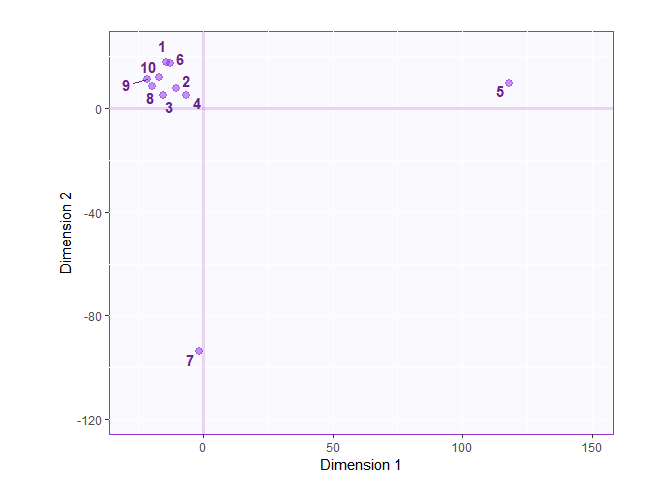
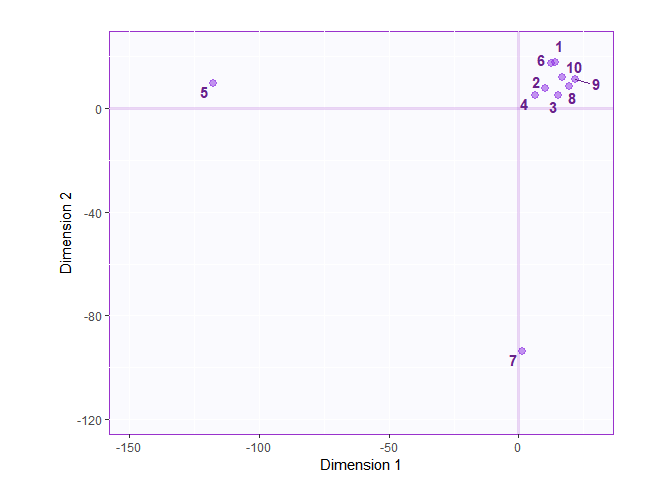
Add factor scores plots to the template

diff --git a/jc/MuSu__NA,_c,_NA_.md b/jc/MuSu__NA,_c,_NA_.md
@@ -128,21 +128,37 @@ col4ImportantEdg[!importantEdg] <- col4NS # replace them in the color vector
 
 Then the contributions are shown in plots
 
+![](MuSu__NA,_c,_NA__files/figure-gfm/grid_ciplot-1.png)<!-- -->
+
+###### Factor scores
+
+First, we plot the factor scores for the 10 sessions
+
+![](MuSu__NA,_c,_NA__files/figure-gfm/plot_f_sess-1.png)<!-- -->
+
+To have a clearer view of the factor scores for the subject x edges, we
+first compute the mean factor scores for the each network edge.
+
 ``` r
-ciplot_all <- createFactorMap(c_edge,
-                          axis1 = 1, axis2 = 2,
-                          col.points = col4ImportantEdg,
-                          text.cex = 2,
-                          force = 0.5,
-                          title = "Contibutions for all subject x edges")
-ciplot_imp <- createFactorMap(c_edge[importantEdg,],
-                          axis1 = 1, axis2 = 2,
-                          col.points = col4ImportantEdg[importantEdg],
-                          text.cex = 2,
-                          force = 0.5,
-                          title = "Significant contribution")
-ciplot01 <- ciplot_all$zeMap_background + ciplot_all$zeMap_dots
-ciplot02 <- ciplot_imp$zeMap_background + ciplot_imp$zeMap_dots + ciplot_imp$zeMap_text
+# Compute means of factor scores for different edges----
+mean.fi <- getMeans(svd.res$ExPosition.Data$fi, gtlabel$subjects_edge_label) # with t(gt)
+
+# BootCube.Comm <- Boot4Mean(pca.res.subj$ExPosition.Data$fi,
+#                            design = labels$subjects_edge_label,
+#                            niter = 100,
+#                            suppressProgressBar = TRUE)
+
+
+# Compute means of factor scores for different types of edges
+mean.fi.bw <- getMeans(svd.res$ExPosition.Data$fi, gtlabel$subjects_wb) # with t(gt)
+
+# BootCube.Comm.bw <- Boot4Mean(pca.res.subj$ExPosition.Data$fi,
+#                            design = labels$subjects_wb,
+#                            niter = 100,
+#                            suppressProgressBar = TRUE)
 ```
 
-![](MuSu__NA,_c,_NA__files/figure-gfm/grid_ciplot-1.png)<!-- -->
+Next, we plot the factor scores for the subject x edges (a mess): Dim 1
+& 2
+
+![](MuSu__NA,_c,_NA__files/figure-gfm/grid_f_netedge_plot-1.png)<!-- -->
